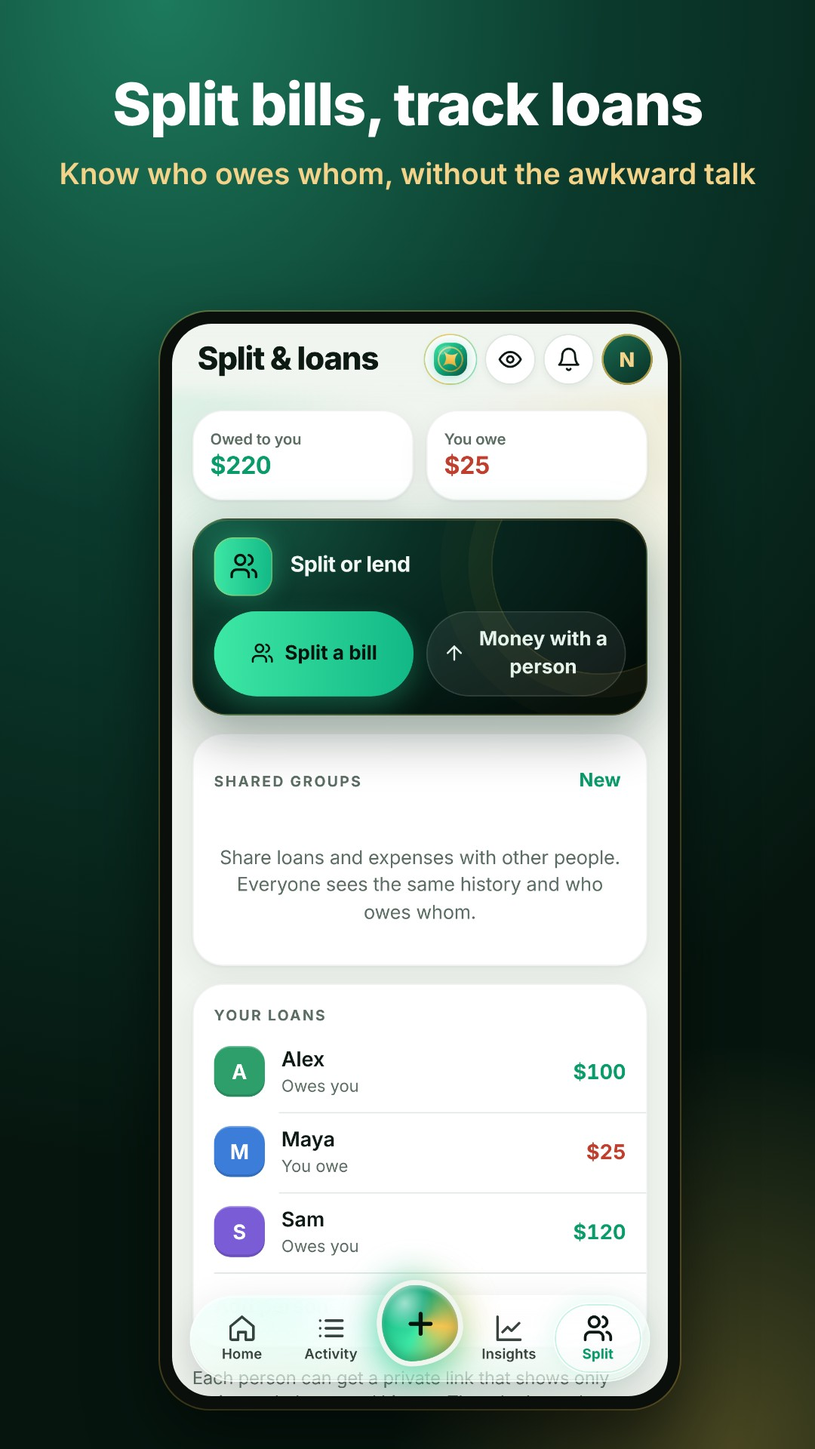
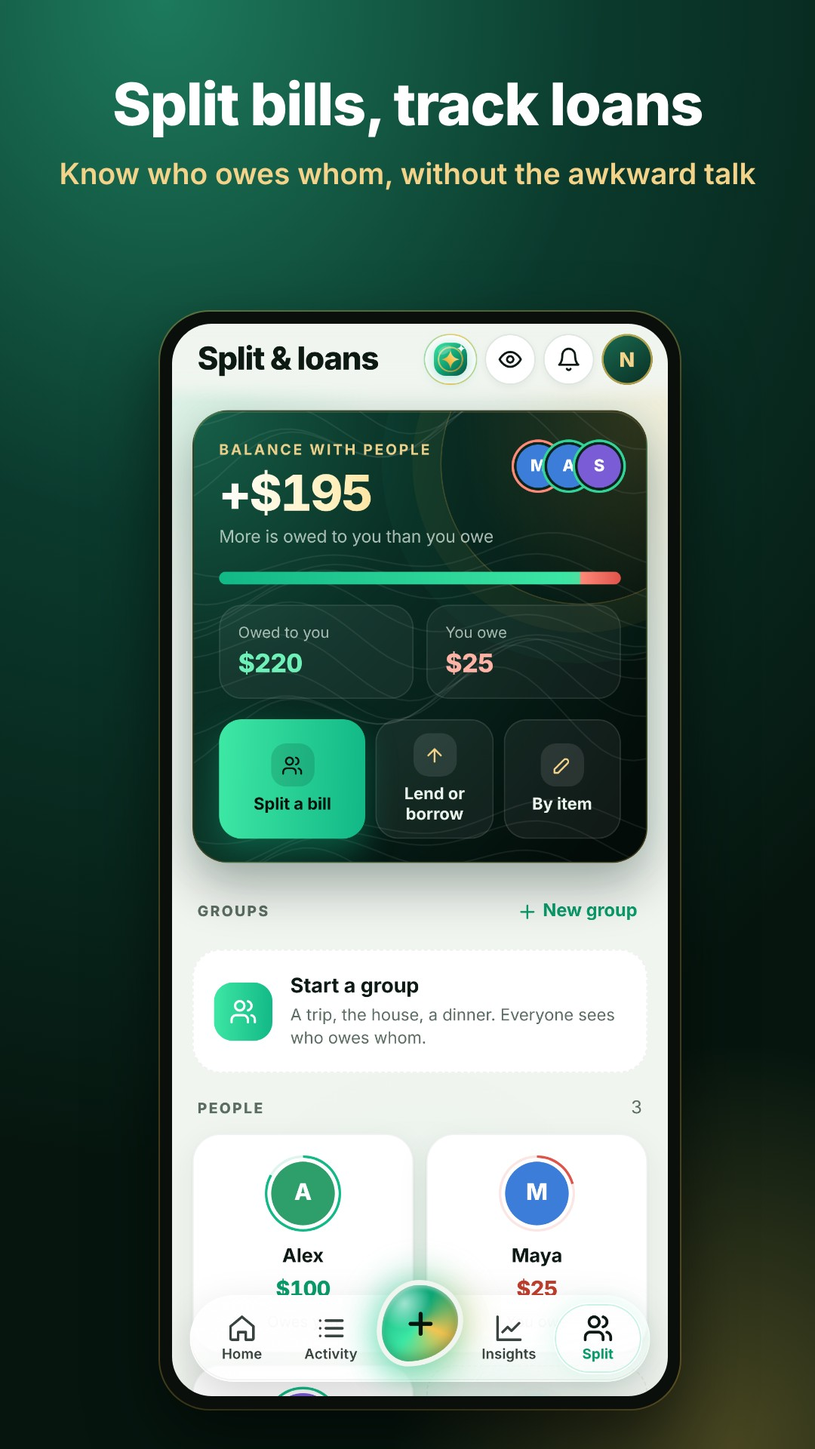
3.86.0: redesigned Split and Settings pages
Claude-Session: https://claude.ai/code/session_01YCt9nHLbWvXVLRE2ysAmc4

diff --git a/app.js b/app.js
@@ -52,7 +52,7 @@
     ["giftsin", "Gifts received", "income", null, "#c2508f"],
     ["otherin", "Other income", "income", null, "#5b7083"]
   ];
-  const VERSION = "3.85.0";
+  const VERSION = "3.86.0";
   const ICONS = {
     globe: "M12 3a9 9 0 1 0 0 18 9 9 0 0 0 0-18zM3.5 9h17M3.5 15h17M12 3c2.4 2.5 3.6 5.5 3.6 9s-1.2 6.5-3.6 9c-2.4-2.5-3.6-5.5-3.6-9s1.2-6.5 3.6-9z",
     home: "M3 10.5 12 3l9 7.5V20a1 1 0 0 1-1 1h-5v-6H9v6H4a1 1 0 0 1-1-1z",
@@ -3130,6 +3130,9 @@
   }
 
   const ADMIN_CHANGES = [
+    { v: "3.86.0", items: [
+      ["", "Split and Settings redesign", "Split: emerald hero card (net with people in gold foil, avatar stack of the top 5 balances with green or coral rings, owed vs owe beam, two balance buttons that jump to People, three actions: Split a bill, Lend or borrow, By item); groups as a horizontal rail of colored cards (color from the name, member avatars, your balance, approvals badge, invites with Accept and Decline); people as a 2-column tile grid with a ring showing each person's share and a late badge; fresh users still get the intro. Settings: profile as a member card (entries, accounts, member since, sync status), quick switches with a mini toggle, Money and App sections as gradient tiles, the rest as lists with glossy icons, and a footer with the logo, version and policy links."]
+    ] },
     { v: "3.85.0", items: [
       ["", "Multiple daily reminders", "push_subs gets extra_times (up to 3 HH:MM, checked by a constraint) and sent_slots (today's sent times). The cron sends one push per run for any due time within 3 hours that wasn't sent today; bill reminders still go only with the first time. Settings → Notifications lists the extra times (Also at) with remove buttons and Add another reminder; they are saved per device. send-reminder version 18."]
     ] },
@@ -3344,6 +3347,10 @@
     ] }
   ];
   const CHANGES = [
+    { v: "3.86.0", items: [
+      ["people", "A new Split page", "Your balance with people on one card, a bar that shows who owes more, colorful group cards and a tile for each person."],
+      ["gear", "A new Settings page", "Your profile card, quick switches, and big colorful tiles for everything you use most."]
+    ] },
     { v: "3.85.0", items: [
       ["bell", "Several reminders a day", "Add up to 4 daily reminders, for example after lunch and before bed, in Settings → Notifications."]
     ] },
@@ -5147,10 +5154,18 @@
     const q = (S.setQuery || "").trim().toLowerCase();
     const name = settings().name;
     const syncTxt = !navigator.onLine ? tr("Offline") : S.syncError ? tr("Couldn't sync") : S.outbox.length ? `${S.outbox.length} ${tr("waiting")}` : tr("Up to date");
-    const profile = h("button", { type: "button", class: "set-profile", on: { click: () => settingsOpen("profile") } },
-      h("span", { class: "set-avatar" }, (name || S.email || "?").trim().charAt(0).toUpperCase()),
-      h("span", { class: "set-who" }, h("strong", null, name || tr("Add your name")), h("small", null, S.email || "")),
-      h("span", { class: "set-sync" + (S.syncError || !navigator.onLine ? " bad" : S.outbox.length ? " wait" : "") }, h("i"), syncTxt));
+    const txs = rows("transactions");
+    const since = [...txs.map(x => x.occurred_on), ...rows("accounts").map(a => String(a.created_at || "").slice(0, 10))].filter(d => DATE_RE.test(d)).sort()[0];
+    const profile = h("button", { type: "button", class: "set-card", on: { click: () => settingsOpen("profile") } },
+      h("span", { class: "set-card-top" },
+        h("span", { class: "set-avatar" }, (name || S.email || "?").trim().charAt(0).toUpperCase()),
+        h("span", { class: "set-who" }, h("strong", null, name || tr("Add your name")), h("small", null, S.email || ""),
+          h("span", { class: "set-sync" + (S.syncError || !navigator.onLine ? " bad" : S.outbox.length ? " wait" : "") }, h("i"), syncTxt)),
+        icon("fwd", "ico sm")),
+      h("span", { class: "set-card-stats" },
+        h("span", null, h("b", { class: "num" }, String(txs.length)), h("small", null, "Entries")),
+        h("span", null, h("b", { class: "num" }, String(rows("accounts").filter(a => !a.archived).length)), h("small", null, "Accounts")),
+        h("span", null, h("b", { class: "sm" }, since ? dfmt({ month: "short", year: "numeric" }).format(new Date(since + "T12:00:00")) : "—"), h("small", null, "Member since"))));
     const search = h("label", { class: "set-search" }, icon("search", "ico sm"),
       h("input", { id: "set-q", type: "search", class: "set-q", placeholder: tr("Search settings"), autocomplete: "off", value: S.setQuery || "", "aria-label": "Search settings", on: { input: e => { S.setQuery = e.target.value; render(); } } }),
       q ? h("button", { type: "button", class: "set-q-x", "aria-label": "Clear", on: { click: () => { S.setQuery = ""; render(); } } }, icon("close", "ico sm")) : null);
@@ -5176,7 +5191,7 @@
       return out;
     }
     const quickToggle = (ic, label, onNow, fn, disabled) => h("button", { type: "button", class: "set-tile" + (onNow ? " on" : ""), "aria-pressed": String(!!onNow), disabled: !!disabled, on: { click: fn } },
-      icon(ic, "ico sm"), h("span", null, label), h("small", null, tr(onNow ? "On" : "Off")));
+      h("span", { class: "set-tile-ico" }, icon(ic, "ico sm")), h("span", { class: "set-tile-name" }, label), h("span", { class: "set-mini", "aria-hidden": "true" }, h("i")));
     kids.push(h("div", { class: "set-tiles" },
       quickToggle("lock", "App lock", lockOn, () => (lockOn ? disableLock() : enableLock()), !lockSupported()),
       quickToggle("bell", "Daily reminder", pushOn, () => pushOn ? disablePush() : PUSH.state === "off" ? enablePush(PUSH.time || "21:00") : settingsOpen("notifications")),
@@ -5185,11 +5200,14 @@
     for (const sec of ["Money", "App", "Privacy and data", "Help", "Admin", "Account"]) {
       const list = PAGES.filter(p => p.sec === sec);
       if (!list.length) continue;
+      const grid = sec === "Money" || sec === "App";
       kids.push(h("section", { class: "group" }, h("h2", { class: "group-title" }, sec),
-        h("div", { class: "card flush set-list" }, list.map(p => h("button", { type: "button", class: "row", on: { click: () => openPage(p) } },
-          ico(p), h("span", { class: "row-main" }, h("span", { class: "row-title" }, p.t)), p.v ? h("span", { class: "set-val" }, p.v) : null, icon("fwd"))))));
+        grid ? h("div", { class: "set-grid" }, list.map(p => h("button", { type: "button", class: "set-gtile", style: { "--c": p.c }, on: { click: () => openPage(p) } },
+            h("span", { class: "set-ico big" }, icon(p.ic, "ico sm")), h("span", { class: "set-gname" }, p.t), h("span", { class: "set-gval" }, p.v || "\u00a0"))))
+          : h("div", { class: "card flush set-list" }, list.map(p => h("button", { type: "button", class: "row", on: { click: () => openPage(p) } },
+            ico(p), h("span", { class: "row-main" }, h("span", { class: "row-title" }, p.t)), p.v ? h("span", { class: "set-val" }, p.v) : null, icon("fwd"))))));
     }
-    kids.push(h("p", { class: "about" }, `BudgetSplit · Version ${VERSION}`));
+    kids.push(h("div", { class: "set-foot" }, h("img", { src: "icons/icon-192-b.png", alt: "" }), h("strong", null, ...brandMark()), h("small", null, `${tr("Version")} ${VERSION}`), legalLinks("set-legal")));
     out.replaceChildren(...kids);
     return out;
   }
@@ -5954,25 +5972,31 @@
 
   function groupsCard() {
     const list = [...GROUPS.list.values()];
-    const card = h("section", { class: "card flush groups-card" }, h("div", { class: "card-head" }, h("h2", null, "Shared groups"), h("button", { type: "button", class: "link-btn", on: { click: newGroupSheet } }, "New")));
+    const HUES = [162, 214, 266, 36, 340, 190, 128, 290]; const hue = t => { let x = 0; for (const ch of String(t)) x = (x * 31 + ch.charCodeAt(0)) % 9973; return HUES[x % HUES.length]; };
+    const sec = h("section", { class: "sp-sec" }, h("div", { class: "sp-sec-head" }, h("h2", null, "Groups"), h("button", { type: "button", class: "link-btn", on: { click: newGroupSheet } }, icon("plus", "ico sm"), "New group")));
+    if (!list.length) { sec.append(h("button", { type: "button", class: "sp-group empty", on: { click: newGroupSheet } }, h("span", { class: "sp-g-ico" }, icon("people")), h("span", null, h("strong", null, "Start a group"), h("small", null, "A trip, the house, a dinner. Everyone sees who owes whom.")))); return sec; }
+    const rail = h("div", { class: "sp-rail" });
     for (const g of list.filter(x => !x.joined)) {
       const by = g.members.find(m => m.user_id === g.invited_by);
-      card.append(h("div", { class: "row invite-row" }, h("span", { class: "dot gold" }, icon("people", "ico sm")),
-        h("span", { class: "row-main" }, h("span", { class: "row-title" }, g.meta.name), h("span", { class: "row-sub wrap" }, `${by && by.name !== "Member" ? by.name : "Someone"} invited you`)),
+      rail.append(h("div", { class: "sp-group invite", style: { "--h": String(hue(g.meta.name)) } },
+        h("span", { class: "sp-g-badge" }, "Invite"),
+        h("strong", { class: "sp-g-name" }, g.meta.name),
+        h("small", null, `${by && by.name !== "Member" ? by.name : tr("Someone")} ${tr("invited you")}`),
         h("span", { class: "inv-btns" },
           h("button", { type: "button", class: "chip", on: { click: () => answerGroup(g, false) } }, "Decline"),
           h("button", { type: "button", class: "chip on", on: { click: () => answerGroup(g, true) } }, "Accept"))));
     }
     for (const g of list.filter(x => x.joined)) {
-      const v = myGroupBalance(g);
+      const v = myGroupBalance(g), parties = gParties(g);
       const pend = g.entries.filter(e => e.votes.length && !e.votes.includes(S.uid)).length;
-      card.append(h("button", { type: "button", class: "row", on: { click: () => groupSheet(g.id) } },
-        h("span", { class: "dot neutral" }, icon("people", "ico sm")),
-        h("span", { class: "row-main" }, h("span", { class: "row-title" }, g.meta.name), h("span", { class: "row-sub" }, [`${gParties(g).length} people`, pend ? `${pend} to approve` : null].filter(Boolean).join(" · "))),
-        h("span", { class: "row-end" + (v > 0.005 ? " pos" : v < -0.005 ? " neg" : "") }, Math.abs(v) < 0.005 ? tr("Settled") : (v > 0 ? "+" : "−") + fmt(Math.abs(v), g.meta.currency))));
+      rail.append(h("button", { type: "button", class: "sp-group", style: { "--h": String(hue(g.meta.name)) }, on: { click: () => groupSheet(g.id) } },
+        pend ? h("span", { class: "sp-g-badge" }, `${pend} ${tr("to approve")}`) : null,
+        h("strong", { class: "sp-g-name" }, g.meta.name),
+        h("span", { class: "sp-g-people" }, parties.slice(0, 4).map((p, i) => h("span", { class: "sp-ava xs", style: { "--c": COLORS[i % COLORS.length] } }, String(p.name || "?").charAt(0).toUpperCase())), parties.length > 4 ? h("span", { class: "sp-ava xs more" }, `+${parties.length - 4}`) : null),
+        h("span", { class: "sp-g-bal" + (v > 0.005 ? " in" : v < -0.005 ? " out" : "") }, Math.abs(v) < 0.005 ? tr("Settled") : `${v > 0 ? tr("You get") : tr("You pay")} ${fmt(Math.abs(v), g.meta.currency)}`)));
     }
-    if (!list.length) card.append(h("p", { class: "empty" }, "Share loans and expenses with other people. Everyone sees the same history and who owes whom."));
-    return card;
+    sec.append(rail);
+    return sec;
   }
 
   async function answerGroup(g, yes) {
@@ -6614,32 +6638,51 @@
   }
 
   function viewPeople() {
-    const st = settings();
     const bal = loanBalances();
     const people = rows("people").sort(bySort);
     let { owed, owe } = groupTotals();
+    const net = new Map();
     for (const p of people) {
       const v = netMine(p, toMain(bal.get(p.id) || 0, p.currency));
+      net.set(p.id, v);
       if (v > 0) owed += v; else owe -= v;
     }
-    const out = h("div", { class: "stack" });
-    out.append(h("div", { class: "tiles two" },
-      h("div", { class: "tile good" }, h("small", null, "Owed to you"), h("strong", null, money(owed))),
-      h("div", { class: "tile" + (owe > 0 ? " bad" : "") }, h("small", null, "You owe"), h("strong", null, money(owe)))));
+    const out = h("div", { class: "stack sp" });
     const fresh = !people.length && !GROUPS.list.size;
-    out.append(splitIntro(fresh));
+    if (fresh) { out.append(splitIntro(true)); return out; }
+    const total = owed - owe, span = owed + owe || 1;
+    const top = people.filter(p => Math.abs(net.get(p.id)) > 0.004).sort((p, q) => Math.abs(net.get(q.id)) - Math.abs(net.get(p.id))).slice(0, 5);
+    const ava = (name, i, cls = "") => h("span", { class: "sp-ava " + cls, style: { "--c": COLORS[i % COLORS.length] } }, String(name || "?").trim().charAt(0).toUpperCase());
+    const act = (ic, label, fn, cls = "") => h("button", { type: "button", class: "sp-act " + cls, on: { click: fn } }, h("span", { class: "sp-act-ico" }, icon(ic, "ico sm")), h("span", null, label));
+    out.append(h("section", { class: "sp-hero" },
+      h("div", { class: "sp-top" },
+        h("div", { class: "sp-head" },
+          h("span", { class: "hero-label" }, "Balance with people"),
+          h("strong", { class: "sp-net num" }, Math.abs(total) < 0.5 ? tr("All settled") : (total > 0 ? "+" : "−") + money(Math.abs(total), { whole: true })),
+          h("small", null, Math.abs(total) < 0.5 ? tr("Nobody owes anything") : total > 0 ? tr("More is owed to you than you owe") : tr("You owe more than you're owed"))),
+        top.length ? h("div", { class: "sp-stack", "aria-hidden": "true" }, top.map((p, i) => ava(p.name, p.sort || i, net.get(p.id) > 0 ? "in" : "out"))) : null),
+      h("div", { class: "sp-beam", "aria-hidden": "true" },
+        h("span", { class: "sp-beam-in", style: { "--w": (owed / span * 100).toFixed(1) + "%" } }),
+        h("span", { class: "sp-beam-out", style: { "--w": (owe / span * 100).toFixed(1) + "%" } })),
+      h("div", { class: "sp-sides" },
+        h("button", { type: "button", class: "sp-side in", on: { click: () => document.getElementById("sp-people")?.scrollIntoView({ behavior: RM.matches ? "auto" : "smooth" }) } }, h("small", null, "Owed to you"), h("b", { class: "num" }, money(owed, { whole: true }))),
+        h("button", { type: "button", class: "sp-side out", on: { click: () => document.getElementById("sp-people")?.scrollIntoView({ behavior: RM.matches ? "auto" : "smooth" }) } }, h("small", null, "You owe"), h("b", { class: "num" }, money(owe, { whole: true })))),
+      h("div", { class: "sp-acts" },
+        act("people", "Split a bill", newGroupSheet, "main"),
+        act("up", "Lend or borrow", () => personSheet(null)),
+        act("note", "By item", itemSplitSheet))));
     out.append(groupsCard());
-    const list = h("section", { class: "card flush" }, h("div", { class: "card-head" }, h("h2", null, "Your loans")));
-    for (const p of people) {
-      const v = bal.get(p.id) || 0;
-      list.append(h("button", { type: "button", class: "row", on: { click: () => personSheet(p) } },
-        h("span", { class: "dot", style: { background: COLORS[(p.sort || 0) % COLORS.length] } }, p.name.charAt(0).toUpperCase()),
-        h("span", { class: "row-main" }, h("span", { class: "row-title" }, p.name), h("span", { class: "row-sub" + (theyOwe(p, v) && dueInfo(p) && dueInfo(p).late ? " late" : "") }, [statusText(p, v), theyOwe(p, v) && dueInfo(p) ? dueInfo(p).text : null, linkOf(p) || (p.share_token && LINKS.owned.has(p.share_token)) ? "Shared" : p.share_token ? "Has their page" : null].filter(Boolean).join(" · "))),
-        h("span", { class: "row-end" + (netMine(p, v) > 0.004 ? " pos" : netMine(p, v) < -0.004 ? " neg" : "") }, fmt(Math.abs(v), p.currency))));
-    }
-    if (!people.length) list.append(h("p", { class: "empty" }, "No one yet. Add the people you lend money to or borrow from."));
-    list.append(h("button", { type: "button", class: "row-btn", on: { click: () => personSheet(null) } }, "Add person"));
-    out.append(list, h("p", { class: "hint" }, "Each person can get a private link that shows only their own balance and history. They don't need an account."));
+    const grid = h("div", { class: "sp-grid" }, people.map((p, i) => {
+      const v = bal.get(p.id) || 0, n = net.get(p.id) || 0, d = theyOwe(p, v) ? dueInfo(p) : null;
+      const share = Math.min(1, Math.abs(n) / Math.max(1, ...people.map(q => Math.abs(net.get(q.id) || 0))));
+      return h("button", { type: "button", class: "sp-person" + (n > 0.004 ? " in" : n < -0.004 ? " out" : " even"), style: { "--p": (share * 100).toFixed(1) + "%" }, on: { click: () => personSheet(p) } },
+        h("span", { class: "sp-ring" }, ava(p.name, p.sort || i)),
+        h("span", { class: "sp-name" }, p.name),
+        h("b", { class: "sp-amt num" }, Math.abs(v) < 0.005 ? tr("Settled") : fmt(Math.abs(v), p.currency, { compact: true })),
+        h("small", { class: "sp-st" + (d && d.late ? " late" : "") }, d && d.late ? tr("Late") : tr(statusText(p, v))));
+    }), h("button", { type: "button", class: "sp-person add", on: { click: () => personSheet(null) } }, h("span", { class: "sp-ring" }, h("span", { class: "sp-ava plus" }, icon("plus", "ico sm"))), h("span", { class: "sp-name" }, "Add person"), h("small", { class: "sp-st" }, "Lend or borrow")));
+    out.append(h("section", { class: "sp-sec", id: "sp-people" }, h("div", { class: "sp-sec-head" }, h("h2", null, "People"), h("span", { class: "hint num" }, people.length ? String(people.length) : "")), grid));
+    out.append(h("p", { class: "hint sp-foot" }, "Each person can get a private link that shows only their own balance and history. They don't need an account."));
     return out;
   }
 

diff --git a/styles.css b/styles.css
@@ -2455,3 +2455,113 @@ html[lang="ar"] .top:has(.tool.keys) h1 { font-size: 22px; }
 .gio-bar small { font-size: 12.5px; color: var(--muted); }
 .gio-bar.busy small { color: var(--accent); }
 .rcpt-share { display: flex; align-items: center; justify-content: center; gap: 6px; margin: 10px auto 0; font-size: 14px; }
+.sp { gap: 18px; }
+.sp-hero { position: relative; overflow: hidden; isolation: isolate; display: grid; gap: 16px; padding: 22px 20px 18px; border-radius: 28px; color: #f2f8f3; background: var(--space); border: 1px solid var(--space-edge); box-shadow: inset 0 1px 0 rgb(255 241 194 / .12), 0 18px 40px rgb(3 12 9 / .32), 0 0 36px rgb(52 211 153 / .10); }
+.sp-hero::before { content: ""; position: absolute; inset: 0; z-index: -1; background: var(--guilloche) center / 420px auto, radial-gradient(60% 70% at 100% 0%, rgb(245 196 81 / .18), transparent 70%), radial-gradient(60% 60% at 0% 100%, rgb(52 211 153 / .14), transparent 70%); pointer-events: none; }
+.sp-hero::after { content: ""; position: absolute; right: -60px; top: -70px; z-index: -1; width: 220px; height: 220px; border-radius: 50%; border: 1px solid rgb(245 196 81 / .22); box-shadow: 0 0 0 22px rgb(245 196 81 / .05), 0 0 0 46px rgb(52 211 153 / .04); pointer-events: none; }
+.sp-top { display: flex; align-items: flex-start; justify-content: space-between; gap: 12px; }
+.sp-head { display: grid; gap: 6px; min-width: 0; }
+.sp-net { font-size: clamp(34px, 10vw, 46px); font-weight: 800; letter-spacing: -.035em; line-height: 1.02; background: var(--gold-foil); -webkit-background-clip: text; background-clip: text; color: transparent; }
+.sp-head small { color: rgb(230 243 234 / .72); font-size: 13.5px; }
+.sp-stack { display: flex; flex-direction: row-reverse; padding-top: 4px; }
+.sp-ava { width: 40px; height: 40px; flex: none; border-radius: 50%; display: grid; place-items: center; font: 800 15px/1 var(--ui); color: #fff; background: var(--c, #3b7dd8); box-shadow: 0 0 0 2px #0b241c; }
+.sp-stack .sp-ava { width: 34px; height: 34px; font-size: 13px; margin-left: -10px; }
+.sp-stack .sp-ava.in { box-shadow: 0 0 0 2px #0b241c, 0 0 0 4px #34d399; }
+.sp-stack .sp-ava.out { box-shadow: 0 0 0 2px #0b241c, 0 0 0 4px #ff8a7a; }
+.sp-beam { position: relative; display: flex; height: 10px; border-radius: 99px; overflow: hidden; background: rgb(255 255 255 / .08); box-shadow: inset 0 1px 2px rgb(0 0 0 / .35); }
+.sp-beam-in, .sp-beam-out { width: var(--w); transition: width .9s cubic-bezier(.2,.8,.2,1); }
+.sp-beam-in { background: linear-gradient(90deg, #12b886, #3ee8a5); box-shadow: 0 0 14px rgb(62 232 165 / .55); }
+.sp-beam-out { margin-left: auto; background: linear-gradient(90deg, #ff8a7a, #e0534a); box-shadow: 0 0 14px rgb(255 138 122 / .45); }
+.sp-sides { display: grid; grid-template-columns: 1fr 1fr; gap: 10px; }
+.sp-side { display: grid; gap: 2px; padding: 12px 14px; border-radius: 18px; border: 1px solid rgb(255 255 255 / .09); background: rgb(255 255 255 / .05); color: inherit; text-align: left; font: inherit; cursor: pointer; }
+.sp-side small { font-size: 12px; color: rgb(230 243 234 / .7); }
+.sp-side b { font-size: 20px; font-weight: 800; letter-spacing: -.02em; }
+.sp-side.in b { color: #6ff0b9; }
+.sp-side.out b { color: #ffb2a6; }
+.sp-acts { display: grid; grid-template-columns: 1.25fr 1fr 1fr; gap: 8px; }
+.sp-act { display: flex; flex-direction: column; align-items: center; justify-content: center; gap: 6px; min-height: 74px; padding: 10px 6px; border-radius: 18px; border: 1px solid rgb(255 255 255 / .1); background: rgb(255 255 255 / .06); color: #eaf5ee; font: 700 13px var(--ui); cursor: pointer; transition: transform .15s; }
+.sp-act:active { transform: scale(.96); }
+.sp-act-ico { width: 34px; height: 34px; border-radius: 12px; display: grid; place-items: center; background: rgb(255 255 255 / .1); color: #f3d28a; }
+.sp-act.main { background: var(--neon-grad); color: #03140e; border: 0; box-shadow: 0 10px 24px rgb(18 184 134 / .35); }
+.sp-act.main .sp-act-ico { background: rgb(3 20 14 / .14); color: #03140e; }
+.sp-sec { display: grid; gap: 10px; }
+.sp-sec-head { display: flex; align-items: center; justify-content: space-between; padding: 0 4px; }
+.sp-sec-head h2 { font-size: 11.5px; letter-spacing: .12em; text-transform: uppercase; color: var(--muted); font-weight: 800; }
+.sp-sec-head .link-btn { display: inline-flex; align-items: center; gap: 4px; font-size: 14px; }
+.sp-rail { display: grid; grid-auto-flow: column; grid-auto-columns: minmax(200px, 62%); gap: 12px; overflow-x: auto; scroll-snap-type: x mandatory; padding: 4px 4px 10px; margin: 0 -4px; scrollbar-width: none; }
+.sp-rail::-webkit-scrollbar { display: none; }
+.sp-group { position: relative; overflow: hidden; scroll-snap-align: start; display: grid; align-content: end; gap: 6px; min-height: 150px; padding: 16px; border-radius: 22px; border: 1px solid rgb(255 255 255 / .1); color: #fff; text-align: left; font: inherit; cursor: pointer; background: radial-gradient(80% 80% at 100% 0%, hsl(var(--h) 70% 55% / .55), transparent 70%), linear-gradient(150deg, hsl(var(--h) 45% 26%), #07140f 85%); box-shadow: 0 12px 28px rgb(3 12 9 / .25); }
+.sp-group::before { content: ""; position: absolute; inset: 0; background: var(--guilloche) center / 360px auto; opacity: .7; pointer-events: none; }
+.sp-group > * { position: relative; }
+.sp-g-name { font-size: 18px; font-weight: 800; letter-spacing: -.02em; line-height: 1.2; }
+.sp-group small { color: rgb(255 255 255 / .75); font-size: 13px; }
+.sp-g-badge { position: absolute; top: 12px; right: 12px; padding: 4px 10px; border-radius: 99px; font-size: 11.5px; font-weight: 800; color: #3a2a06; background: var(--gold-grad); }
+.sp-g-people { display: flex; }
+.sp-ava.xs { width: 26px; height: 26px; font-size: 11px; margin-right: -6px; box-shadow: 0 0 0 2px rgb(7 20 15 / .9); }
+.sp-ava.more { background: rgb(255 255 255 / .2); }
+.sp-g-bal { justify-self: start; margin-top: 4px; padding: 5px 11px; border-radius: 99px; font-size: 13px; font-weight: 800; background: rgb(255 255 255 / .12); }
+.sp-g-bal.in { color: #6ff0b9; }
+.sp-g-bal.out { color: #ffb2a6; }
+.sp-group.invite { box-shadow: inset 0 0 0 1.5px rgb(245 196 81 / .6), 0 12px 28px rgb(3 12 9 / .25); cursor: default; }
+.sp-group.invite .inv-btns { display: flex; gap: 8px; margin-top: 6px; }
+.sp-group.empty { display: flex; align-items: center; gap: 14px; min-height: 0; color: var(--ink); background: var(--card); border: 1px dashed var(--edge); box-shadow: none; }
+.sp-group.empty::before { display: none; }
+.sp-group.empty small { color: var(--muted); display: block; margin-top: 2px; }
+.sp-g-ico { width: 46px; height: 46px; flex: none; border-radius: 15px; display: grid; place-items: center; color: #fff; background: var(--neon-grad); }
+.sp-grid { display: grid; grid-template-columns: repeat(auto-fill, minmax(150px, 1fr)); gap: 10px; }
+.sp-person { display: grid; justify-items: center; gap: 4px; padding: 16px 10px 14px; border-radius: 22px; border: 1px solid var(--edge); background: var(--card); box-shadow: var(--shadow); color: var(--ink); font: inherit; cursor: pointer; transition: transform .15s; }
+.sp-person:active { transform: scale(.97); }
+.sp-ring { --ring: var(--line); width: 60px; height: 60px; border-radius: 50%; display: grid; place-items: center; margin-bottom: 4px; background: conic-gradient(var(--ring) var(--p, 0%), color-mix(in srgb, var(--ring) 14%, transparent) 0); }
+.sp-person.in .sp-ring { --ring: #12b886; }
+.sp-person.out .sp-ring { --ring: #e0534a; }
+.sp-ring .sp-ava { width: 50px; height: 50px; font-size: 18px; box-shadow: 0 0 0 3px var(--card); }
+.sp-name { font-weight: 750; font-size: 15px; max-width: 100%; overflow: hidden; text-overflow: ellipsis; white-space: nowrap; }
+.sp-amt { font-size: 17px; font-weight: 800; letter-spacing: -.02em; }
+.sp-person.in .sp-amt { color: var(--pos); }
+.sp-person.out .sp-amt { color: var(--neg); }
+.sp-person.even .sp-amt { color: var(--muted); font-size: 14px; }
+.sp-st { font-size: 12px; color: var(--muted); }
+.sp-st.late { color: var(--neg); font-weight: 700; }
+.sp-person.add { border-style: dashed; box-shadow: none; background: transparent; }
+.sp-ava.plus { background: color-mix(in srgb, var(--accent) 14%, var(--card)); color: var(--accent); box-shadow: none; }
+.sp-foot { text-align: center; padding: 0 12px; }
+@media (min-width: 700px) { .sp-rail { grid-auto-columns: minmax(220px, 32%); } }
+.sp-sec { background: none; border: 0; box-shadow: none; padding: 0; }
+.sp-rail { padding: 6px 16px 22px; margin: -6px -16px -12px; scroll-padding: 0 16px; } .sp-group { box-shadow: 0 8px 18px rgb(3 12 9 / .18); }
+.set-card { position: relative; overflow: hidden; isolation: isolate; display: grid; gap: 16px; width: 100%; padding: 20px; border-radius: 28px; color: #f2f8f3; text-align: left; font: inherit; cursor: pointer; background: var(--space); border: 1px solid var(--space-edge); box-shadow: inset 0 1px 0 rgb(255 241 194 / .12), 0 18px 40px rgb(3 12 9 / .3), 0 0 30px rgb(52 211 153 / .1); }
+.set-card::before { content: ""; position: absolute; inset: 0; z-index: -1; pointer-events: none; background: var(--guilloche) center / 420px auto, radial-gradient(60% 70% at 100% 0%, rgb(245 196 81 / .2), transparent 70%); }
+.set-card-top { display: flex; align-items: center; gap: 14px; }
+.set-card .set-avatar { width: 58px; height: 58px; font-size: 22px; color: #3a2a06; background: var(--gold-grad); box-shadow: 0 0 0 3px rgb(11 36 28), 0 0 0 4.5px rgb(245 196 81 / .6), 0 8px 18px rgb(0 0 0 / .35); }
+.set-card .set-who strong { font-size: 20px; color: #fff; }
+.set-card .set-who small { color: rgb(230 243 234 / .7); }
+.set-card-top > .ico { color: rgb(243 210 138 / .8); }
+.set-card-stats { display: grid; grid-template-columns: repeat(3, 1fr); gap: 8px; }
+.set-card-stats > span { display: grid; gap: 2px; padding: 10px 12px; border-radius: 16px; background: rgb(255 255 255 / .06); border: 1px solid rgb(255 255 255 / .08); min-width: 0; }
+.set-card-stats b { font-size: 17px; font-weight: 800; color: #f3d28a; white-space: nowrap; overflow: hidden; text-overflow: ellipsis; }
+.set-card-stats small { font-size: 11.5px; color: rgb(230 243 234 / .65); }
+.set-card .set-sync { justify-self: start; margin-top: 4px; padding: 3px 9px; font-size: 11.5px; background: rgb(255 255 255 / .1); color: #6ff0b9; }
+.set-card .set-sync.wait { color: #f3d28a; }
+.set-card .set-sync.bad { color: #ffb2a6; }
+
+.set-tiles { gap: 10px; }
+.set-tile { position: relative; justify-items: start; align-content: space-between; gap: 10px; min-height: 108px; padding: 12px; border-radius: 20px; text-align: left; }
+.set-tile-ico { width: 36px; height: 36px; border-radius: 12px; display: grid; place-items: center; background: var(--sunk); color: var(--muted); transition: background .2s, color .2s; }
+.set-tile .set-tile-name { font-size: 12.5px; font-weight: 700; line-height: 1.2; color: var(--ink); }
+.set-mini { position: absolute; top: 14px; right: 12px; width: 26px; height: 16px; border-radius: 99px; background: var(--line); transition: background .2s; }
+.set-mini i { position: absolute; top: 2px; left: 2px; width: 12px; height: 12px; border-radius: 50%; background: #fff; box-shadow: 0 1px 2px rgb(0 0 0 / .25); transition: transform .22s cubic-bezier(.3,1.4,.5,1); }
+.set-tile.on .set-tile-ico { background: var(--neon-grad); color: #03140e; }
+.set-tile.on .set-mini { background: var(--accent); }
+.set-tile.on .set-mini i { transform: translateX(10px); }
+.set-grid { display: grid; grid-template-columns: 1fr 1fr; gap: 10px; }
+.set-gtile { position: relative; overflow: hidden; display: grid; align-content: space-between; gap: 14px; min-height: 112px; padding: 14px; border-radius: 22px; border: 1px solid var(--edge); color: var(--ink); text-align: left; font: inherit; cursor: pointer; background: radial-gradient(90% 80% at 100% 0%, color-mix(in srgb, var(--c) 18%, transparent), transparent 70%), var(--card); box-shadow: var(--shadow); transition: transform .15s; }
+.set-gtile:active { transform: scale(.97); }
+
+.set-ico.big { width: 40px; height: 40px; border-radius: 13px; background: linear-gradient(145deg, color-mix(in srgb, var(--c) 82%, #fff), var(--c)); box-shadow: 0 6px 14px color-mix(in srgb, var(--c) 35%, transparent), inset 0 1px 0 rgb(255 255 255 / .35); }
+.set-gname { font-size: 15px; font-weight: 750; line-height: 1.25; }
+.set-gval { font-size: 12.5px; color: var(--muted); margin-top: -10px; white-space: nowrap; overflow: hidden; text-overflow: ellipsis; }
+.set-list .set-ico { box-shadow: inset 0 1px 0 rgb(255 255 255 / .3), 0 4px 10px color-mix(in srgb, var(--c) 30%, transparent); }
+.set-foot { display: grid; justify-items: center; gap: 6px; padding: 10px 0 18px; }
+.set-foot img { width: 44px; height: 44px; border-radius: 13px; box-shadow: var(--shadow); }
+.set-foot strong { font-size: 16px; font-weight: 800; }
+.set-foot small { color: var(--muted); font-size: 12.5px; }
+.set-card-stats b.sm { font-size: 14px; padding-top: 3px; }

diff --git a/i18n.js b/i18n.js
@@ -1843,6 +1843,23 @@ Object.assign(window.WALLET_I18N.words, {
   "Several reminders a day": ["Plusieurs rappels par jour", "عدة تذكيرات يوميًا"],
   "Add up to 4 daily reminders, for example after lunch and before bed, in Settings → Notifications.": ["Ajoutez jusqu'à 4 rappels par jour, par exemple après le déjeuner et avant de dormir, dans Réglages → Notifications.", "أضف حتى 4 تذكيرات يوميًا، مثلًا بعد الغداء وقبل النوم، من الإعدادات ← الإشعارات."],
   "Also at": ["Aussi à", "وأيضًا عند"],
+  "Balance with people": ["Solde avec les autres", "رصيدك مع الآخرين"],
+  "Nobody owes anything": ["Personne ne doit rien", "لا أحد مدين بشيء"],
+  "More is owed to you than you owe": ["On vous doit plus que vous ne devez", "ما يُدان لك أكثر مما تدين به"],
+  "You owe more than you're owed": ["Vous devez plus qu'on ne vous doit", "تدين بأكثر مما يُدان لك"],
+  "By item": ["Par article", "حسب الصنف"],
+  "Start a group": ["Créer un groupe", "أنشئ مجموعة"],
+  "A trip, the house, a dinner. Everyone sees who owes whom.": ["Un voyage, la maison, un dîner. Chacun voit qui doit quoi.", "رحلة، البيت، عشاء. الجميع يرى من يدين لمن."],
+  "invited you": ["vous a invité", "دعاك"],
+  "to approve": ["à approuver", "للموافقة"],
+  "You get": ["Vous recevez", "تستلم"],
+  "Late": ["En retard", "متأخر"],
+  "Member since": ["Membre depuis", "عضو منذ"],
+  "Version": ["Version", "الإصدار"],
+  "A new Split page": ["Une nouvelle page Partage", "صفحة تقسيم جديدة"],
+  "Your balance with people on one card, a bar that shows who owes more, colorful group cards and a tile for each person.": ["Votre solde avec les autres sur une carte, une barre qui montre qui doit le plus, des groupes en couleur et une tuile par personne.", "رصيدك مع الآخرين في بطاقة واحدة، شريط يُظهر من يدين أكثر، بطاقات مجموعات ملوّنة وبلاطة لكل شخص."],
+  "A new Settings page": ["Une nouvelle page Réglages", "صفحة إعدادات جديدة"],
+  "Your profile card, quick switches, and big colorful tiles for everything you use most.": ["Votre carte de profil, des interrupteurs rapides et de grandes tuiles colorées pour ce que vous utilisez le plus.", "بطاقة ملفك، مفاتيح سريعة، وبلاطات ملوّنة كبيرة لكل ما تستخدمه أكثر."],
   "Ask AI, for free": ["Demandez à l'IA, gratuitement", "اسأل الذكاء الاصطناعي مجانًا"],
   "Tap the gold star at the top to ask anything about your money: how much you spent, where you can save, who owes you, or how the app works. 30 free questions a day.": ["Touchez l'étoile dorée en haut pour poser n'importe quelle question sur votre argent : combien vous avez dépensé, où économiser, qui vous doit, ou comment marche l'app. 30 questions gratuites par jour.", "اضغط النجمة الذهبية في الأعلى لتسأل أي شيء عن أموالك: كم صرفت، أين توفّر، من يدين لك، أو كيف يعمل التطبيق. 30 سؤالًا مجانيًا يوميًا."]
 });

diff --git a/sw.js b/sw.js
@@ -1,4 +1,4 @@
-const CACHE = "wallet-shell-v183";
+const CACHE = "wallet-shell-v184";
 const ASSETS = [
   "./",
   "./index.html",

diff --git a/store/README.md b/store/README.md
@@ -213,6 +213,7 @@ Update this list with every app change, so the listing, screenshots and privacy 
 | 3.83.0 | Notifications: delete, clear all, grouped by day; Gio sphere | No listing change needed |
 | 3.84.0 | Receipts shared as images; Gio sphere bar in chat | Mention "share your monthly receipt" in the description |
 | 3.85.0 | Up to 4 daily reminders | In the native app, schedule these as local notifications too |
+| 3.86.0 | Split and Settings pages redesigned | Split screenshot regenerated |
 
 ## Save for the native app
 
